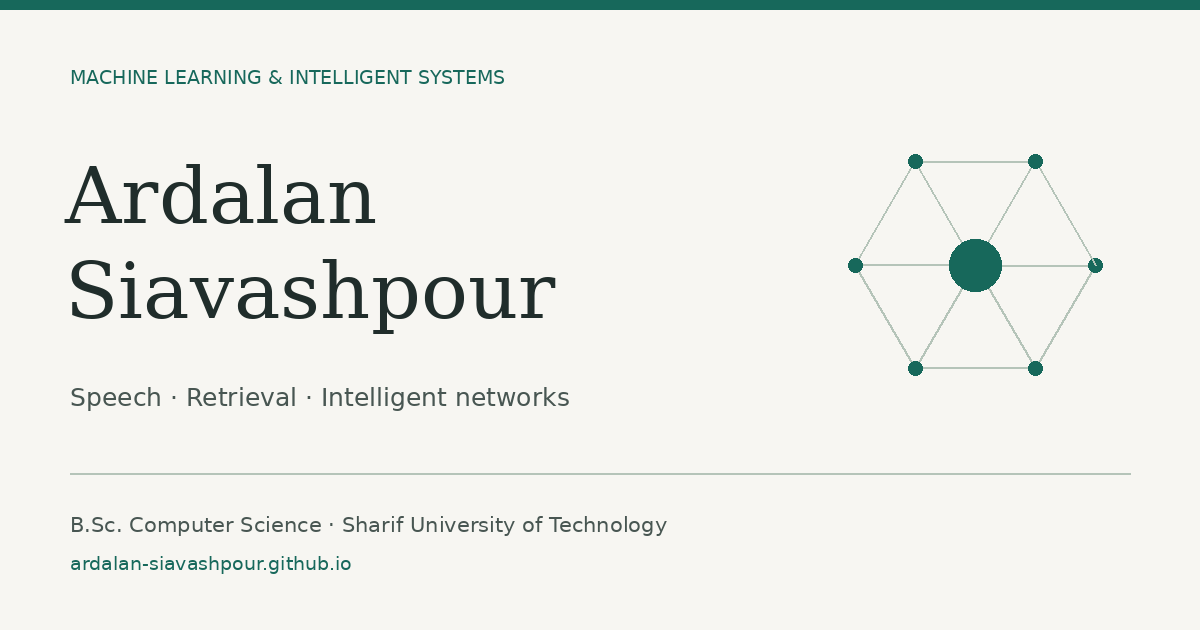
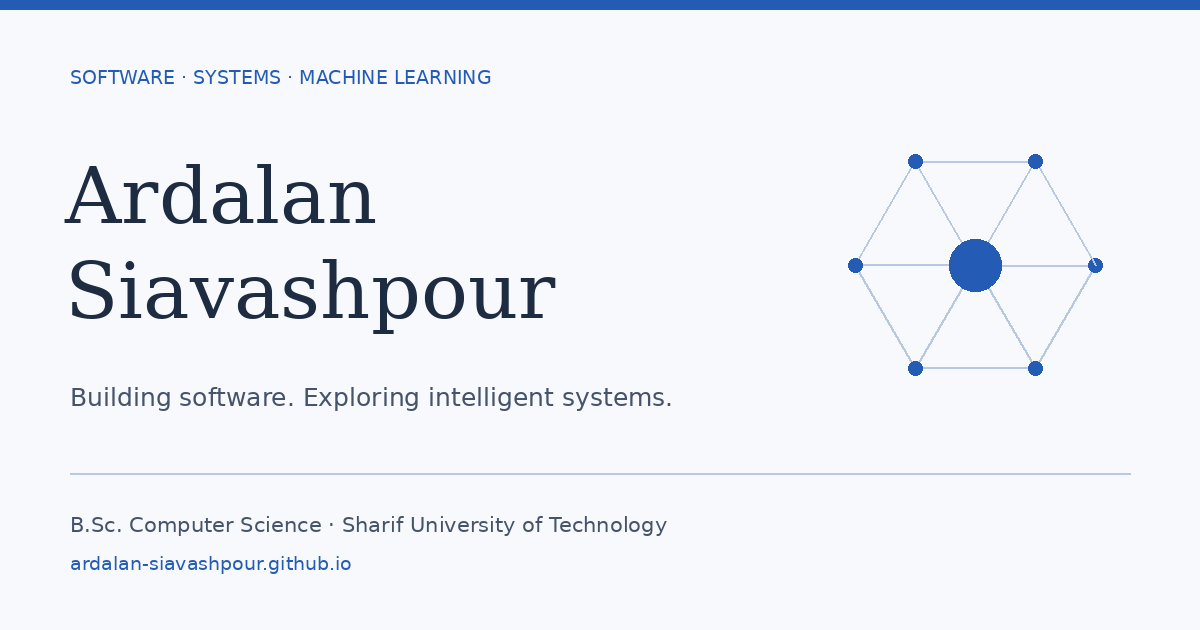
Balance portfolio around software and systems with a blue theme

diff --git a/index.html b/index.html
@@ -4,24 +4,24 @@
   <meta charset="utf-8">
   <meta name="viewport" content="width=device-width, initial-scale=1">
   <meta name="color-scheme" content="light dark">
-  <title>Ardalan Siavashpour | Machine Learning & Intelligent Systems</title>
-  <meta name="description" content="Ardalan Siavashpour, Computer Science graduate of Sharif University of Technology. Research in speech recognition, multimodal retrieval, reinforcement learning, and intelligent networked systems.">
+  <title>Ardalan Siavashpour | Software, Systems & Machine Learning</title>
+  <meta name="description" content="Ardalan Siavashpour, Computer Science graduate of Sharif University of Technology. Projects in software engineering, distributed systems, and machine learning, alongside research and teaching.">
   <link rel="canonical" href="https://ardalan-siavashpour.github.io/">
   <meta property="og:type" content="website">
-  <meta property="og:title" content="Ardalan Siavashpour | Research & Projects">
-  <meta property="og:description" content="Machine learning, speech and multimodal retrieval, and intelligent networked systems. Research, selected projects, and academic background.">
+  <meta property="og:title" content="Ardalan Siavashpour | Software, Systems & Machine Learning">
+  <meta property="og:description" content="Software projects, distributed systems, machine learning, research, and teaching. A portfolio of ideas put into practice.">
   <meta property="og:url" content="https://ardalan-siavashpour.github.io/">
-  <meta property="og:image" content="https://ardalan-siavashpour.github.io/assets/social-card.png">
+  <meta property="og:image" content="https://ardalan-siavashpour.github.io/assets/social-card.png?v=20261011-blue">
   <meta property="og:image:width" content="1200">
   <meta property="og:image:height" content="630">
-  <meta property="og:image:alt" content="Ardalan Siavashpour — machine learning and intelligent systems">
+  <meta property="og:image:alt" content="Ardalan Siavashpour — software, systems, and machine learning">
   <meta name="twitter:card" content="summary_large_image">
-  <meta name="theme-color" content="#f7f6f2">
-  <link rel="icon" href="assets/favicon.svg" type="image/svg+xml">
-  <link rel="stylesheet" href="assets/styles.css">
+  <meta name="theme-color" content="#f7f9fc">
+  <link rel="icon" href="assets/favicon.svg?v=20261011-blue" type="image/svg+xml">
+  <link rel="stylesheet" href="assets/styles.css?v=20261011-blue">
   <script src="assets/main.js" defer></script>
   <script type="application/ld+json">
-  {"@context":"https://schema.org","@type":"Person","name":"Ardalan Siavashpour","url":"https://ardalan-siavashpour.github.io/","email":"mailto:ardalan.siavashpour@gmail.com","alumniOf":{"@type":"CollegeOrUniversity","name":"Sharif University of Technology"},"sameAs":["https://github.com/Ardalan-Sia"],"knowsAbout":["Machine learning","Speaker recognition","Multimodal information retrieval","Reinforcement learning","Self-organizing networks"]}
+  {"@context":"https://schema.org","@type":"Person","name":"Ardalan Siavashpour","url":"https://ardalan-siavashpour.github.io/","email":"mailto:ardalan.siavashpour@gmail.com","alumniOf":{"@type":"CollegeOrUniversity","name":"Sharif University of Technology"},"sameAs":["https://github.com/Ardalan-Sia"],"knowsAbout":["Software engineering","Distributed systems","Machine learning","Information retrieval","Computer networks"]}
   </script>
 </head>
 <body>
@@ -30,9 +30,9 @@
     <div class="container header-inner">
       <a class="wordmark" href="#home" aria-label="Ardalan Siavashpour, home">AS<span aria-hidden="true">.</span></a>
       <nav class="site-nav" id="primary-nav" aria-label="Main navigation">
-        <a href="#research">Research</a>
-        <a href="#about">About</a>
         <a href="#projects">Projects</a>
+        <a href="#about">About</a>
+        <a href="#research">Research</a>
         <a href="#teaching">Teaching</a>
         <a href="#contact">Contact</a>
       </nav>
@@ -46,75 +46,73 @@
     <section class="hero" id="home" aria-labelledby="hero-title">
       <div class="container hero-grid">
         <div class="hero-copy">
-          <p class="eyebrow">Machine learning & intelligent systems</p>
+          <p class="eyebrow">Software · Systems · Machine learning</p>
           <h1 class="hero-title" id="hero-title">Ardalan <span>Siavashpour</span></h1>
-          <p class="hero-lead">From signals to intelligent decisions.</p>
-          <p class="hero-description">I’m a Computer Science graduate of Sharif University of Technology. I work on speech and multimodal retrieval, learning-based decision-making, and intelligent networked systems.</p>
+          <p class="hero-lead">Building software. Exploring intelligent systems.</p>
+          <p class="hero-description">I’m a Computer Science graduate of Sharif University of Technology. I build software, work on distributed systems, and explore machine learning—from product retrieval and programming platforms to speech recognition.</p>
           <div class="hero-actions">
-            <a class="button button-primary" href="#research">Explore my research <span aria-hidden="true">↗</span></a>
+            <a class="button button-primary" href="#projects">Explore my projects <span aria-hidden="true">↗</span></a>
             <a class="button button-secondary" href="Ardalan-Siavashpour-cv.pdf" download>Download CV <span aria-hidden="true">↓</span><span class="sr-only"> (PDF)</span></a>
           </div>
           <div class="hero-meta"><span>B.Sc. Computer Science · 2026</span><span>Tehran, Iran</span></div>
         </div>
         <figure class="research-visual">
-          <div class="visual-topline"><span>Research, in connection</span><span aria-hidden="true">01 — 03</span></div>
+          <div class="visual-topline"><span>Code, models & systems</span><span aria-hidden="true">01 — 03</span></div>
           <svg viewBox="0 0 420 310" fill="none" aria-hidden="true" focusable="false">
             <defs><pattern id="dot-grid" width="21" height="21" patternUnits="userSpaceOnUse"><circle cx="1" cy="1" r="1" fill="currentColor" opacity=".16"/></pattern></defs>
             <rect x="1" y="1" width="418" height="308" fill="url(#dot-grid)"/>
             <g stroke="currentColor" opacity=".25"><circle cx="210" cy="153" r="93" stroke-dasharray="3 6"/><circle cx="210" cy="153" r="53"/><path d="M111 84 210 153 319 87M210 153 270 254M111 84 68 180 159 253 270 254 352 181 319 87 210 42 111 84M68 180 210 153 159 253M210 42 210 153 352 181"/></g>
             <g fill="currentColor"><circle cx="111" cy="84" r="7"/><circle cx="319" cy="87" r="7"/><circle cx="270" cy="254" r="7"/><circle cx="210" cy="42" r="3"/><circle cx="68" cy="180" r="3"/><circle cx="159" cy="253" r="3"/><circle cx="352" cy="181" r="3"/></g>
-            <circle cx="210" cy="153" r="24" fill="currentColor"/><g stroke="var(--visual-ink, #fff)" stroke-width="2.5" stroke-linecap="round"><path d="M198 154h3m3-7v14m6-20v24m6-17v12m6-8v4"/></g>
-            <g fill="currentColor" font-family="ui-monospace, monospace" font-size="10" letter-spacing="1.5"><text x="33" y="65">SPEECH</text><text x="292" y="65">RETRIEVAL</text><text x="277" y="282">NETWORKS</text></g>
+            <circle cx="210" cy="153" r="24" fill="currentColor"/><g stroke="var(--visual-ink, #fff)" stroke-width="2.5" stroke-linecap="round" stroke-linejoin="round"><path d="M200 145l-8 8 8 8m20-16 8 8-8 8m-6-21-8 26"/></g>
+            <g fill="currentColor" font-family="ui-monospace, monospace" font-size="10" letter-spacing="1.5"><text x="28" y="65">SOFTWARE</text><text x="290" y="65">LEARNING</text><text x="277" y="282">SYSTEMS</text></g>
           </svg>
-          <figcaption class="visual-caption">Learning from signals.<br>Connecting information.<br>Understanding complex systems.</figcaption>
+          <figcaption class="visual-caption">Software that runs.<br>Models that learn.<br>Systems that connect.</figcaption>
         </figure>
       </div>
     </section>
 
-    <section class="section" id="research" aria-labelledby="research-title">
+    <section class="section" id="projects" aria-labelledby="projects-title">
       <div class="container">
-        <div class="section-heading"><div><p class="eyebrow">01 / Research</p><h2 id="research-title">Questions I’m working on.</h2><p class="section-intro">My research spans machine learning for speech and autonomous cellular networks.</p></div><p class="section-note">Research manuscripts<br><span class="muted">Work in progress</span></p></div>
-        <div class="research-list">
-          <article class="research-card">
-            <span class="research-index" aria-hidden="true">01</span>
-            <div class="research-body">
-              <div class="card-meta"><span>Speaker recognition · 2025–present</span><span class="status">In revision</span></div>
-              <h3>Speaker recognition based on Mel-frequency cepstral coefficients using machine learning methods</h3>
-              <p>How can a shared audio feature pipeline support a meaningful comparison of neural and classical classifiers?</p>
-              <ul class="evidence-list"><li>Built block-based preprocessing and MFCC features, including temporal derivatives and spectral descriptors.</li><li>Compared multilayer perceptron and linear SVM classifiers with ANOVA feature selection and cross-validation.</li><li>Led data preparation, model development, evaluation, and manuscript writing.</li></ul>
-              <p class="muted"><strong>A. Siavashpour</strong>, S. Rajabi, and M. Javadian. Manuscript being revised for a new submission.</p>
-              <div class="tag-list" aria-label="Research topics"><span class="tag">Speech features</span><span class="tag">Neural networks</span><span class="tag">SVM</span></div>
-            </div>
-          </article>
-          <article class="research-card">
-            <span class="research-index" aria-hidden="true">02</span>
-            <div class="research-body">
-              <div class="card-meta"><span>Self-organizing networks · 2024–present</span><span class="status">In preparation</span></div>
-              <h3>A Comprehensive Survey of Self-Organizing Networks in Next-Generation Cellular Systems</h3>
-              <p>How do cellular networks configure, optimize, and recover autonomously as their scale and complexity grow?</p>
-              <ul class="evidence-list"><li>Co-authored a survey synthesizing 114 references across self-configuration, optimization, healing, learning, and protection.</li><li>Compared optimization-based, heuristic, and learning-driven approaches in 4G/5G and emerging 6G systems.</li><li>Developed comparative tables and technical figures; examined coordination, explainability, and federated learning.</li></ul>
-              <p class="muted"><strong>A. Siavashpour</strong>, K. Siavashpour, M. Azadegan, B. Safaei, H. Peyvandi, and M. Imran. Manuscript in preparation.</p>
-              <div class="tag-list" aria-label="Research topics"><span class="tag">Cellular networks</span><span class="tag">Autonomous systems</span><span class="tag">Learning-driven control</span></div>
-            </div>
-          </article>
+        <div class="section-heading"><div><p class="eyebrow">01 / Selected projects</p><h2 id="projects-title">Things I’ve helped build.</h2><p class="section-intro">Software platforms, distributed infrastructure, and machine learning in practice.</p></div><a class="text-link" href="https://github.com/Ardalan-Sia">More on GitHub <span aria-hidden="true">↗</span></a></div>
+        <div class="project-grid">
+          <article class="project-card"><p class="card-meta">01 / Distributed systems · 2026</p><h3>SliceDB</h3><p>Co-developed a distributed in-memory key-value store with hash-based partitioning, asynchronous replication, automatic failover, and online resharding.</p><p>Contributed to service discovery, leader election, and replica synchronization.</p><div class="tag-list"><span class="tag">Go</span><span class="tag">etcd</span><span class="tag">Replication</span></div><a class="text-link" href="https://github.com/sharif-go-lab/SliceDB">View SliceDB source <span aria-hidden="true">↗</span></a></article>
+          <article class="project-card"><p class="card-meta">02 / Multimodal retrieval · 2026</p><h3>Torob Agentic RAG</h3><p>Built a Persian product retrieval pipeline over 200,000 products, combining multilingual embeddings, FAISS search, lexical reranking, and CLIP image retrieval.</p><p>Evaluated text retrieval on 5,000 search-log queries using Recall@k, MRR, and NDCG.</p><div class="tag-list"><span class="tag">Python</span><span class="tag">FAISS</span><span class="tag">CLIP</span></div><a class="text-link" href="https://github.com/Ardalan-Sia/torob-agentic-rag">View Torob source <span aria-hidden="true">↗</span></a></article>
+          <article class="project-card"><p class="card-meta">03 / Software engineering · 2025</p><h3>Online Judge Platform</h3><p>Co-developed a Go programming platform with role-based access, problem management, submission tracking, and asynchronous verdicts.</p><p>Built a separate Docker-based code runner with resource and network restrictions, checking submissions against each problem’s sample test.</p><div class="tag-list"><span class="tag">Go</span><span class="tag">Docker</span><span class="tag">PostgreSQL</span></div><a class="text-link" href="https://github.com/sharif-go-lab/go-judge-platform">View judge source <span aria-hidden="true">↗</span></a></article>
+          <article class="project-card"><p class="card-meta">04 / Data infrastructure · 2025</p><h3>HDFS & Spark Analytics</h3><p>Co-built a Dockerized HDFS deployment with active/standby NameNodes and automatic failover.</p><p>Developed Java Spark Dataset jobs to analyze NYC taxi records and write query results as Parquet.</p><div class="tag-list"><span class="tag">Java</span><span class="tag">Spark</span><span class="tag">Hadoop</span></div><a class="text-link" href="https://github.com/sharif-go-lab/nyc-taxi-hdfs-spark-ha">View analytics source <span aria-hidden="true">↗</span></a></article>
+          <article class="project-card"><p class="card-meta">05 / Sequential decisions · 2024</p><h3>Job-Shop Scheduling</h3><p>Co-implemented a Johnson-inspired heuristic, genetic algorithms, and Deep Q-Learning in a scheduling simulation framework.</p><p>Compared makespan, waiting time, and response time across the approaches.</p><div class="tag-list"><span class="tag">Python</span><span class="tag">Reinforcement learning</span></div><a class="text-link" href="https://github.com/Ardalan-Sia/RealTime-Systems-Project">View scheduling source <span aria-hidden="true">↗</span></a></article>
         </div>
       </div>
     </section>
 
     <section class="section" id="about" aria-labelledby="about-title">
       <div class="container about-grid">
-        <div class="about-copy"><p class="eyebrow">02 / Background</p><h2 id="about-title">A foundation in computer science.<br>A focus on research.</h2><p>I graduated from Sharif University of Technology in July 2026. My work brings together feature engineering, model evaluation, and the systems needed to put learning methods into practice.</p><p>I’m interested in graduate research in speech and multimodal information retrieval, reinforcement learning and sequential decision-making, and intelligent networked systems.</p><a class="text-link" href="Ardalan-Siavashpour-cv.pdf">Read my academic CV <span aria-hidden="true">↗</span><span class="sr-only"> (PDF)</span></a></div>
+        <div class="about-copy"><p class="eyebrow">02 / About</p><h2 id="about-title">Curious about ideas.<br>Hands-on with code.</h2><p>I graduated from Sharif University of Technology in July 2026. My interests span software engineering, distributed systems, and machine learning. I enjoy working through both the algorithms and the infrastructure behind a useful application.</p><p>My experience includes building retrieval pipelines, contributing to distributed databases and programming platforms, conducting research, and teaching computer networks and software engineering.</p><a class="text-link" href="Ardalan-Siavashpour-cv.pdf">View my CV <span aria-hidden="true">↗</span><span class="sr-only"> (PDF)</span></a></div>
         <aside class="education-card" aria-label="Education and honors"><p class="eyebrow">Education</p><h3>Sharif University<br>of Technology</h3><p>B.Sc. in Computer Science<br><span class="muted">November 2020 — July 2026</span></p><hr><p class="eyebrow">Selected honor</p><h3>Top 0.5% nationwide</h3><p class="muted">Iranian University Entrance Examination (Konkoor), 2020</p></aside>
       </div>
     </section>
 
-    <section class="section" id="projects" aria-labelledby="projects-title">
+    <section class="section" id="research" aria-labelledby="research-title">
       <div class="container">
-        <div class="section-heading"><div><p class="eyebrow">03 / Selected projects</p><h2 id="projects-title">Ideas, implemented.</h2><p class="section-intro">Retrieval, sequential decisions, and distributed infrastructure.</p></div><a class="text-link" href="https://github.com/Ardalan-Sia">More on GitHub <span aria-hidden="true">↗</span></a></div>
-        <div class="project-grid">
-          <article class="project-card"><p class="card-meta">01 / Multimodal retrieval · 2026</p><h3>Torob Agentic RAG</h3><p>Built a Persian product retrieval pipeline over 200,000 products, combining multilingual embeddings, FAISS search, lexical reranking, and CLIP image retrieval.</p><p>Evaluated text retrieval on 5,000 search-log queries using Recall@k, MRR, and NDCG.</p><div class="tag-list"><span class="tag">Python</span><span class="tag">FAISS</span><span class="tag">CLIP</span></div><a class="text-link" href="https://github.com/Ardalan-Sia/torob-agentic-rag">View Torob source <span aria-hidden="true">↗</span></a></article>
-          <article class="project-card"><p class="card-meta">02 / Sequential decisions · 2024</p><h3>Job-Shop Scheduling</h3><p>Co-implemented a Johnson-inspired heuristic, genetic algorithms, and Deep Q-Learning in a scheduling simulation framework.</p><p>Compared makespan, waiting time, and response time across the approaches.</p><div class="tag-list"><span class="tag">Python</span><span class="tag">Reinforcement learning</span></div><a class="text-link" href="https://github.com/Ardalan-Sia/RealTime-Systems-Project">View scheduling source <span aria-hidden="true">↗</span></a></article>
-          <article class="project-card"><p class="card-meta">03 / Distributed systems · 2026</p><h3>SliceDB</h3><p>Co-developed a distributed in-memory key-value store with hash-based partitioning, asynchronous replication, automatic failover, and online resharding.</p><p>Contributed to service discovery, leader election, and replica synchronization.</p><div class="tag-list"><span class="tag">Go</span><span class="tag">etcd</span><span class="tag">Replication</span></div><a class="text-link" href="https://github.com/sharif-go-lab/SliceDB">View SliceDB source <span aria-hidden="true">↗</span></a></article>
+        <div class="section-heading"><div><p class="eyebrow">03 / Research</p><h2 id="research-title">A closer look.</h2><p class="section-intro">Alongside building software, I contribute to research in speech recognition and cellular networks.</p></div></div>
+        <div class="research-list">
+          <article class="research-card">
+            <span class="research-index" aria-hidden="true">01</span>
+            <div class="research-body">
+              <div class="card-meta"><span>Speaker recognition · 2025–present</span><span class="status">In revision</span></div>
+              <h3>Speaker recognition</h3>
+              <p>Built an audio feature pipeline and compared neural and SVM classifiers with feature selection and cross-validation. Led model development, evaluation, and manuscript writing.</p>
+              <details class="research-details"><summary>Manuscript details</summary><p>“Speaker recognition based on Mel-frequency cepstral coefficients using machine learning methods.”</p><p class="muted"><strong>A. Siavashpour</strong>, S. Rajabi, and M. Javadian. Being revised for a new submission.</p></details>
+            </div>
+          </article>
+          <article class="research-card">
+            <span class="research-index" aria-hidden="true">02</span>
+            <div class="research-body">
+              <div class="card-meta"><span>Self-organizing networks · 2024–present</span><span class="status">In preparation</span></div>
+              <h3>Self-organizing networks</h3>
+              <p>Co-authored a survey of autonomous network configuration, optimization, and recovery across 4G/5G and emerging 6G systems, synthesizing 114 references.</p>
+              <details class="research-details"><summary>Manuscript details</summary><p>“A Comprehensive Survey of Self-Organizing Networks in Next-Generation Cellular Systems.”</p><p class="muted"><strong>A. Siavashpour</strong>, K. Siavashpour, M. Azadegan, B. Safaei, H. Peyvandi, and M. Imran. In preparation.</p></details>
+            </div>
+          </article>
         </div>
       </div>
     </section>
@@ -133,7 +131,7 @@
 
     <section class="section" id="skills" aria-labelledby="skills-title"><div class="container"><div class="section-heading"><div><p class="eyebrow">05 / Toolkit</p><h2 id="skills-title">Tools behind the work.</h2></div></div><div class="skills-grid"><div class="skill-group"><h3>Programming</h3><p>Python, Go, C++, Java, R</p></div><div class="skill-group"><h3>Machine learning & retrieval</h3><p>TensorFlow / Keras, scikit-learn, FAISS, CLIP, speech features, reinforcement learning</p></div><div class="skill-group"><h3>Systems & research tools</h3><p>Docker, Git, Linux, PostgreSQL, Apache Spark, Hadoop HDFS, LaTeX, TikZ</p></div></div></div></section>
 
-    <section class="contact-section" id="contact" aria-labelledby="contact-title"><div class="container contact-grid"><div><p class="eyebrow">06 / Contact</p><h2 id="contact-title">Let’s talk research.</h2><p>I welcome conversations about graduate research opportunities and collaborations in machine learning and intelligent systems.</p></div><div class="contact-actions"><a class="contact-email" href="mailto:ardalan.siavashpour@gmail.com">ardalan.siavashpour@gmail.com <span aria-hidden="true">↗</span></a><div class="inline-links"><a href="https://github.com/Ardalan-Sia">GitHub <span aria-hidden="true">↗</span></a><a href="Ardalan-Siavashpour-cv.pdf">Academic CV <span class="sr-only">(PDF)</span><span aria-hidden="true">↓</span></a></div></div></div></section>
+    <section class="contact-section" id="contact" aria-labelledby="contact-title"><div class="container contact-grid"><div><p class="eyebrow">06 / Contact</p><h2 id="contact-title">Have something in mind?</h2><p>I’m open to software projects, collaborations, research discussions, and opportunities to build something useful together.</p></div><div class="contact-actions"><a class="contact-email" href="mailto:ardalan.siavashpour@gmail.com">ardalan.siavashpour@gmail.com <span aria-hidden="true">↗</span></a><div class="inline-links"><a href="https://github.com/Ardalan-Sia">GitHub <span aria-hidden="true">↗</span></a><a href="Ardalan-Siavashpour-cv.pdf">CV <span class="sr-only">(PDF)</span><span aria-hidden="true">↓</span></a></div></div></div></section>
   </main>
   <footer class="site-footer"><div class="container footer-inner"><p>© 2026 Ardalan Siavashpour</p><p>Updated October 2026</p><a href="#home">Back to top <span aria-hidden="true">↑</span></a></div></footer>
 </body>

diff --git a/assets/styles.css b/assets/styles.css
@@ -1,35 +1,35 @@
 /* Academic portfolio — local typefaces and a deliberately small visual system. */
 :root {
   color-scheme: light;
-  --paper: #f7f6f2;
+  --paper: #f7f9fc;
   --surface: #ffffff;
-  --wash: #eeeee7;
-  --ink: #202d2b;
-  --text: #485652;
-  --muted: #66716b;
-  --accent: #17685b;
-  --accent-hover: #104d43;
-  --accent-soft: #e8efea;
-  --line: #d8ded5;
-  --strong-line: #b5c4b9;
+  --wash: #eef2f8;
+  --ink: #1e2c42;
+  --text: #45546b;
+  --muted: #5e6c82;
+  --accent: #245cb5;
+  --accent-hover: #1b458c;
+  --accent-soft: #eaf0fa;
+  --line: #d7e0ed;
+  --strong-line: #b7c8e0;
   --serif: Georgia, "Times New Roman", serif;
   --sans: -apple-system, BlinkMacSystemFont, "Segoe UI", Helvetica, Arial, sans-serif;
   --mono: "SFMono-Regular", Consolas, "Liberation Mono", monospace;
 }
 [data-theme="dark"] {
   color-scheme: dark;
-  --paper: #15201e;
-  --surface: #1b2926;
-  --wash: #202f2b;
-  --ink: #f0f2e9;
-  --text: #c0cdc6;
-  --muted: #9bad9f;
-  --accent: #96d3bd;
-  --accent-hover: #c2e8d7;
-  --accent-soft: #263e34;
-  --visual-ink: #15201e;
-  --line: #35483e;
-  --strong-line: #607a6a;
+  --paper: #111b2d;
+  --surface: #17243a;
+  --wash: #1d2c44;
+  --ink: #edf3ff;
+  --text: #bccbe1;
+  --muted: #99aecb;
+  --accent: #91baff;
+  --accent-hover: #b7d3ff;
+  --accent-soft: #1e3150;
+  --visual-ink: #111b2d;
+  --line: #30435f;
+  --strong-line: #5a7396;
 }
 *, *::before, *::after { box-sizing: border-box; }
 html { scroll-behavior: smooth; scroll-padding-top: 6rem; }
@@ -93,13 +93,13 @@ a:hover { color: var(--accent-hover); }
 .section-heading > div > .section-intro { margin-top: 12px; }
 .section-intro, .section-note { color: var(--muted); font-size: .84rem; max-width: 410px; line-height: 1.75; }
 .section-heading > .section-intro { margin-left: auto; }
-.research-list { display: grid; gap: 20px; }
-.research-card { display: grid; grid-template-columns: 50px minmax(0, 1fr); gap: 20px; background: var(--surface); border: 1px solid var(--line); border-radius: 4px; padding: 30px; }
+.research-list { display: grid; grid-template-columns: repeat(2, minmax(0, 1fr)); gap: 20px; }
+.research-card { display: grid; grid-template-columns: 30px minmax(0, 1fr); gap: 16px; background: var(--surface); border: 1px solid var(--line); border-radius: 4px; padding: 26px; }
 .research-index { color: var(--accent); font: 400 1.65rem/1.25 var(--serif); padding-top: 1px; }
 .research-body { min-width: 0; }
 .card-meta { display: flex; flex-wrap: wrap; align-items: center; gap: 6px 14px; color: var(--muted); font-size: .7rem; line-height: 1.6; margin-bottom: 10px; }
 .card-meta .status, .status { color: var(--accent); font-size: .69rem; background: var(--accent-soft); padding: 3px 8px; border-radius: 3px; }
-.research-card h3 { font: 400 1.5rem/1.3 var(--serif); letter-spacing: -.025em; max-width: 800px; margin-bottom: 10px; }
+.research-card h3 { font: 400 1.35rem/1.3 var(--serif); letter-spacing: -.025em; max-width: 800px; margin-bottom: 10px; }
 .research-card p { color: var(--text); font-size: .87rem; max-width: 850px; }
 .research-card .research-supervision { color: var(--muted); margin-bottom: 14px; font-size: .76rem; }
 .evidence-list { margin-top: 13px; color: var(--text); font-size: .84rem; line-height: 1.8; }
@@ -111,6 +111,15 @@ a:hover { color: var(--accent-hover); }
 .text-link { display: inline-flex; align-items: center; gap: 10px; color: var(--accent); font-size: .78rem; font-weight: 600; text-decoration: none; min-height: 36px; }
 .text-link:hover { text-decoration: underline; }
 .research-body > .text-link { margin-top: 12px; }
+.research-details { margin-top: 18px; border-top: 1px solid var(--line); }
+.research-details summary { cursor: pointer; color: var(--accent); font-size: .76rem; font-weight: 600; padding: 12px 0; min-height: 44px; }
+.research-details summary:hover { color: var(--accent-hover); text-decoration: underline; text-underline-offset: .22em; }
+.research-details summary::marker { color: var(--accent); }
+.research-details[open] { padding-bottom: 2px; }
+.research-details[open] summary { margin-bottom: 2px; }
+.research-details p { font-size: .76rem; line-height: 1.75; }
+.research-details p + p { margin-top: 10px; }
+.research-details p:last-child { color: var(--muted); }
 .about-grid { display: grid; grid-template-columns: minmax(0, 1.2fr) minmax(0, 1fr); gap: 72px; align-items: start; }
 .about-copy { color: var(--text); font-size: .92rem; }
 .about-copy p + p { margin-top: 17px; }
@@ -188,6 +197,7 @@ a:hover { color: var(--accent-hover); }
   .section { padding: 46px 0; scroll-margin-top: 72px; }
   .section-heading { gap: 15px; margin-bottom: 27px; }
   .section-heading > .section-intro { margin-left: 0; max-width: 560px; }
+  .research-list { grid-template-columns: 1fr; }
   .research-card { padding: 23px; gap: 15px; grid-template-columns: 30px minmax(0, 1fr); }
   .research-index { font-size: 1.3rem; }
   .research-card h3 { font-size: 1.3rem; }
@@ -224,7 +234,7 @@ a:hover { color: var(--accent-hover); }
   *, *::before, *::after { animation: none !important; transition: none !important; }
 }
 @media print {
-  :root, [data-theme="dark"] { color-scheme: light; --paper: #fff; --surface: #fff; --wash: #f4f4f4; --ink: #111; --text: #333; --muted: #555; --accent: #164a3c; --accent-soft: #f4f7f4; --line: #ccc; --strong-line: #aaa; }
+  :root, [data-theme="dark"] { color-scheme: light; --paper: #fff; --surface: #fff; --wash: #f4f4f4; --ink: #111; --text: #333; --muted: #555; --accent: #1b458c; --accent-soft: #f2f5fa; --line: #ccc; --strong-line: #aaa; }
   @page { margin: 16mm; }
   body { font-size: 10pt; }
   .container { width: 100%; max-width: none; }
@@ -238,6 +248,7 @@ a:hover { color: var(--accent-hover); }
   .section-heading { margin-bottom: 18px; }
   .section-heading h2, .contact-section h2 { font-size: 21pt; }
   .research-card, .project-card, .education-card, .teaching-item, .skill-group { break-inside: avoid; }
+  .research-list { grid-template-columns: 1fr; }
   .research-card { padding: 16px; }
   .project-grid { grid-template-columns: repeat(2, minmax(0, 1fr)); }
   .project-card { padding: 15px; }

diff --git a/README.md b/README.md
@@ -1,6 +1,6 @@
-# Ardalan Siavashpour — academic website
+# Ardalan Siavashpour — personal portfolio
 
-Static academic homepage hosted on GitHub Pages. No package installation or build step is required.
+Static portfolio covering software engineering, distributed systems, machine learning, research, and teaching. Hosted on GitHub Pages; no package installation or build step is required.
 
 ## Preview
 
